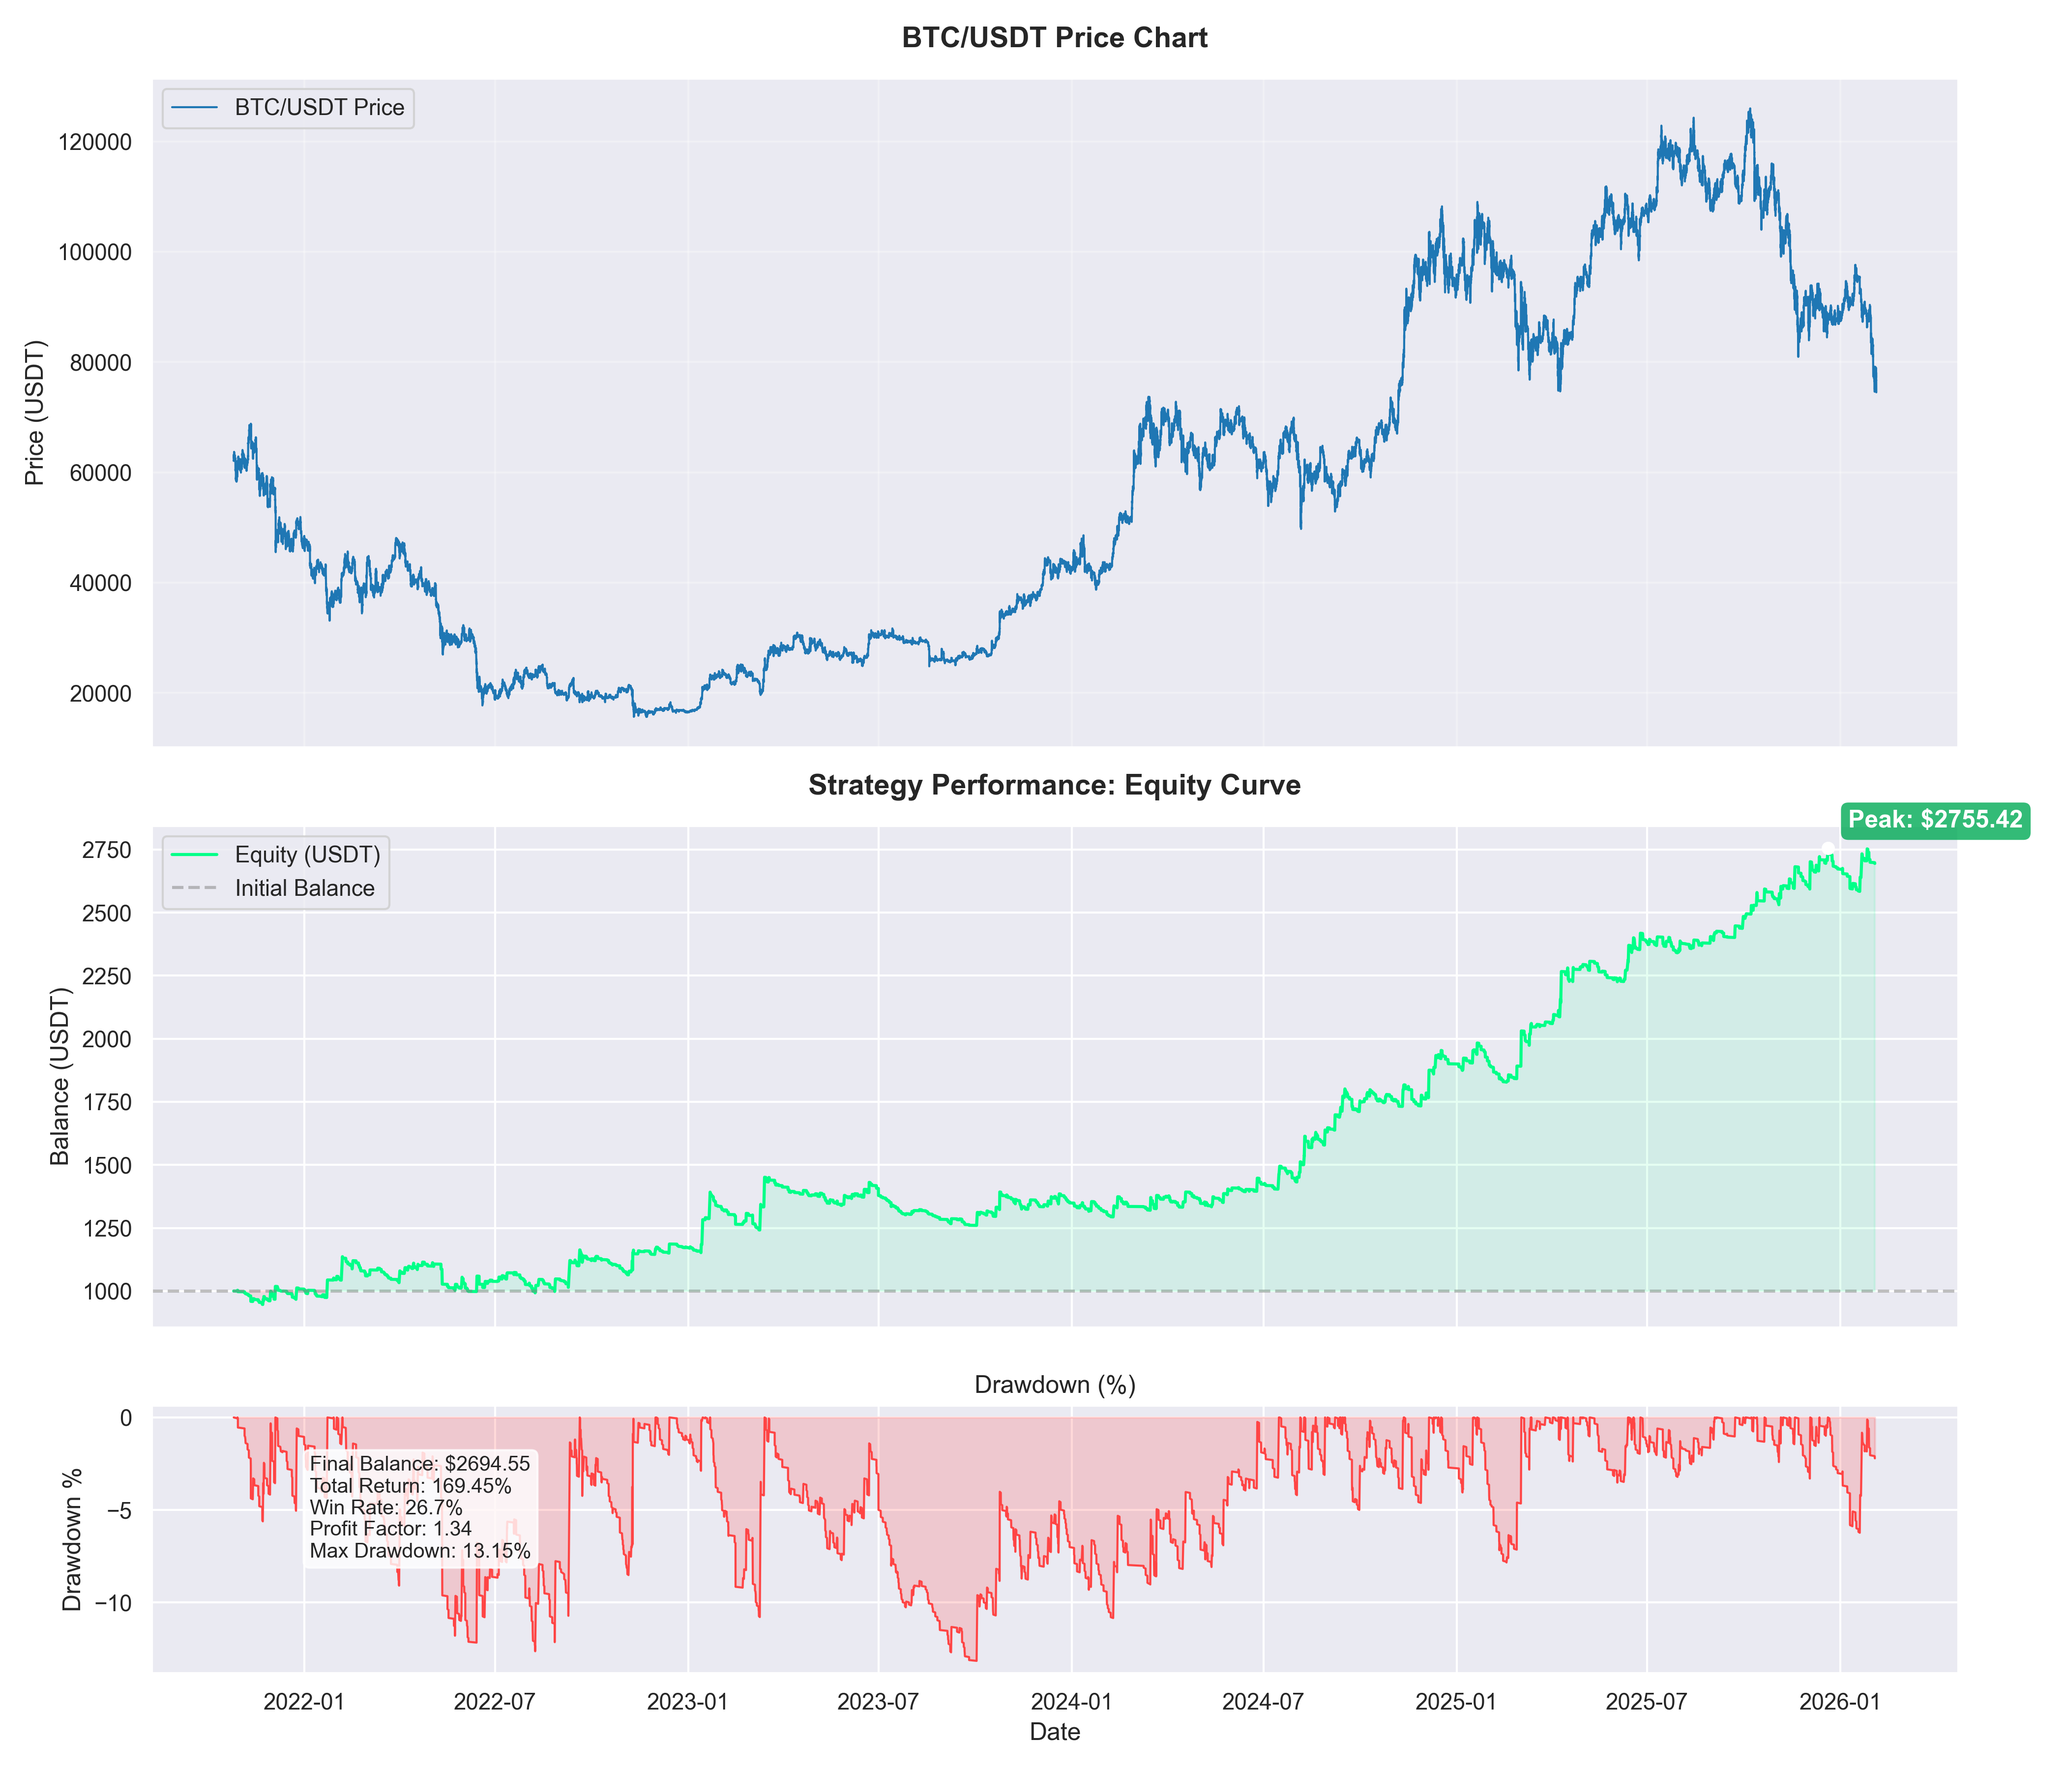
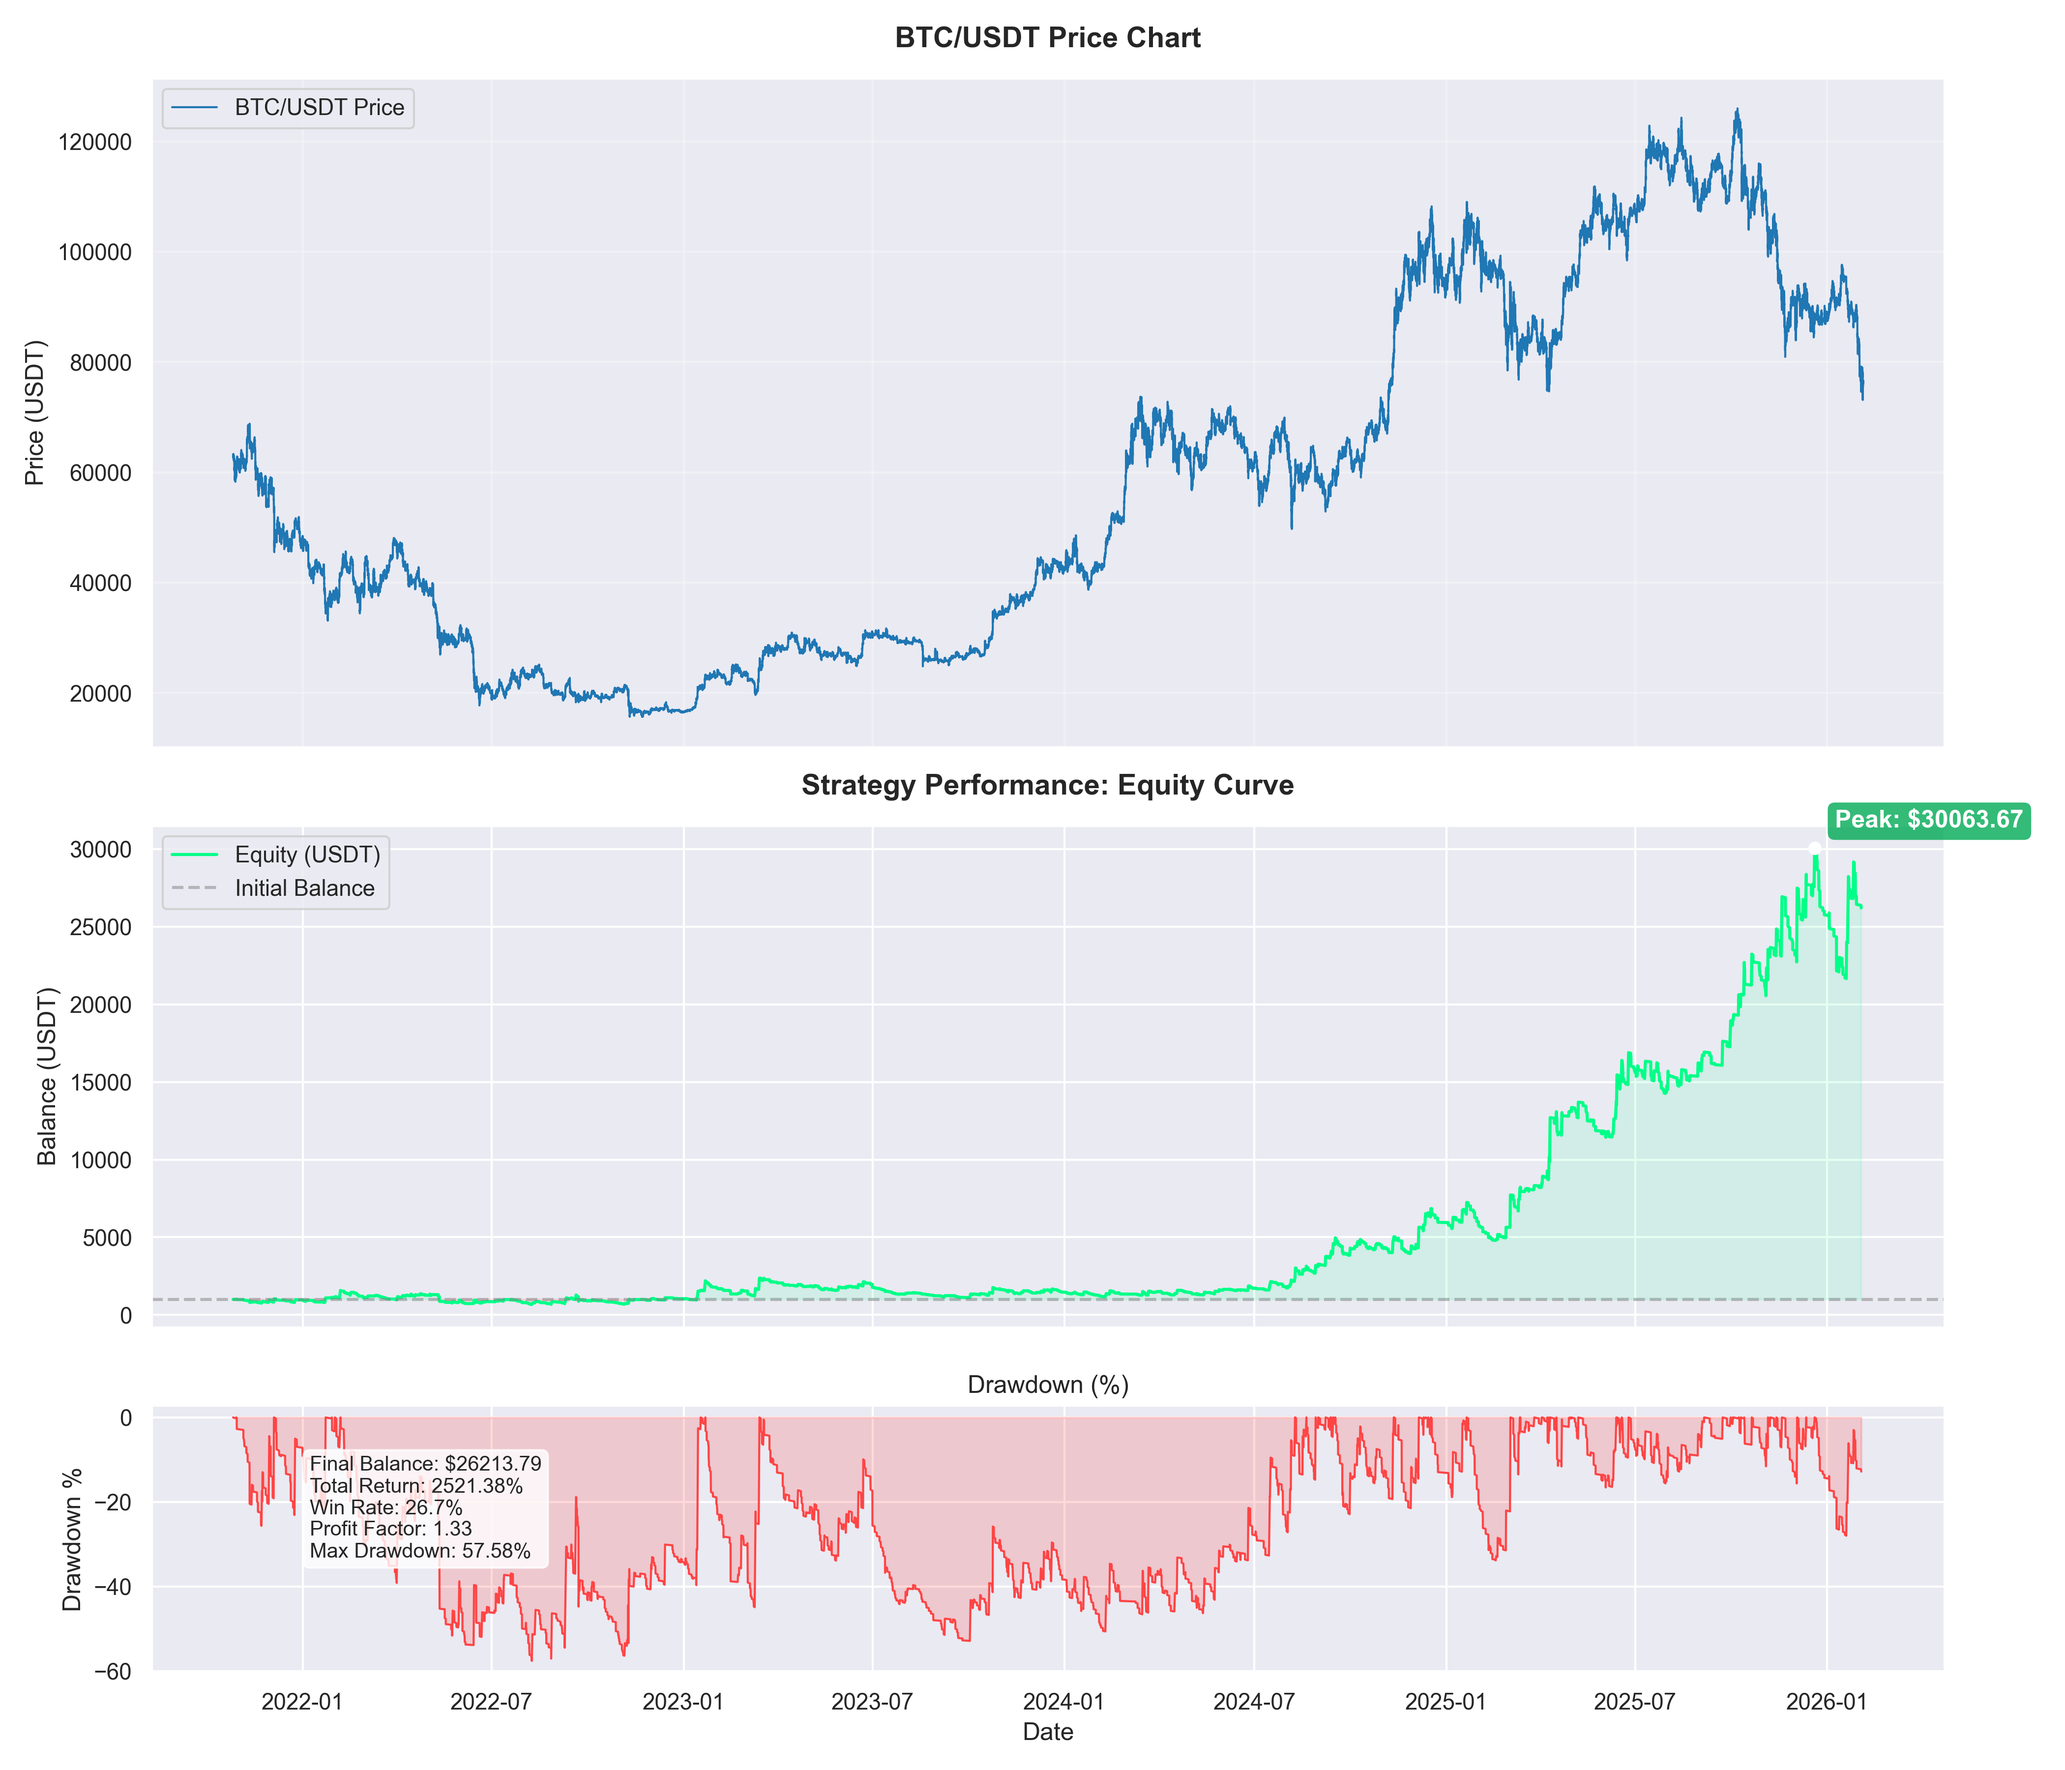
feat: introduce granular ADX length optimization, refine strategy parameters and leverage settings, and update project version to 1.12.0.

diff --git a/optimize/optimize_adx_length.py b/optimize/optimize_adx_length.py
@@ -1,0 +1,69 @@
+
+import numpy as np
+import pandas as pd
+from base_optimizer import BaseOptimizer
+from backtest import simulate
+from bot.data_processor import DataProcessor
+from config import (
+    ATR_MULTIPLIER, ADX_THRESHOLD,
+    VOLUME_MA_LENGTH, RSI_OVERBOUGHT, RSI_OVERSOLD
+)
+
+def run_simulation(adx_len, df_base):
+    """
+    Run simulation with a specific ADX length.
+    Threshold is fixed from config.
+    """
+    # Recalculate ADX with the test length
+    df_wk = df_base.copy()
+    df_wk['ADX'] = DataProcessor.calculate_adx(df_wk, length=adx_len)
+    
+    # Run simulation
+    res, _ = simulate(df_wk, adx_threshold=ADX_THRESHOLD, volume_ma_length=VOLUME_MA_LENGTH)
+    
+    return {
+        'adx_length': adx_len,
+        'pnl_pct': res['pnl_pct'],
+        'win_rate': res['win_rate'],
+        'pf': res['profit_factor'],
+        'mdd': res['max_drawdown'],
+        'total_trades': res['total_trades']
+    }
+
+def run_optimization():
+    optimizer = BaseOptimizer("ADX Length Optimization")
+    
+    print(f"Pure Trend Following Strategy - SL Mult: {ATR_MULTIPLIER}")
+    print(f"Fixed: ADX Threshold={ADX_THRESHOLD}, Volume MA Length={VOLUME_MA_LENGTH}")
+    
+    if not optimizer.load_and_prepare_data():
+        return
+
+    # Define ADX length range
+    adx_lengths = np.arange(7, 21, 1)
+    
+    print(f"Testing {len(adx_lengths)} ADX lengths...")
+    
+    tasks = [(adx_len,) for adx_len in adx_lengths]
+    
+    results = optimizer.run_parallel(tasks, run_simulation)
+    
+    opt_df = optimizer.save_and_analyze(results, "optimization_results_adx_length.csv")
+    
+    if opt_df is not None and not opt_df.empty:
+        # Filter for acceptable drawdown (e.g. < 20%)
+        valid_mdd = opt_df[opt_df['mdd'] < 20]
+        
+        if not valid_mdd.empty:
+            print("\n🌟 RECOMMENDED CONFIG (MDD < 20%):")
+            print("Sorted by PnL:")
+            print(valid_mdd.sort_values(by='pnl_pct', ascending=False).head(5).to_string(index=False))
+            
+            print("\nSorted by Profit Factor:")
+            print(valid_mdd.sort_values(by='pf', ascending=False).head(5).to_string(index=False))
+        else:
+            print("\n⚠ No configuration found with MDD < 20%. Best available:")
+            print(opt_df.sort_values(by='pnl_pct', ascending=False).head(5).to_string(index=False))
+
+if __name__ == "__main__":
+    run_optimization()

diff --git a/optimize/optimize_adx_threshold.py b/optimize/optimize_adx_threshold.py
@@ -5,14 +5,14 @@ from base_optimizer import BaseOptimizer
 from backtest import simulate
 from bot.data_processor import DataProcessor
 from config import (
-    ATR_MULTIPLIER,
+    ATR_MULTIPLIER, ADX_LENGTH,
     VOLUME_MA_LENGTH, RSI_OVERBOUGHT, RSI_OVERSOLD
 )
 
 def run_simulation(adx_th, df_final):
     """
     Run simulation with a specific ADX threshold.
-    Volume MA length is fixed from config.
+    ADX Length is fixed from config (Calculated in BaseOptimizer).
     """
     # Work on a copy to avoid side effects
     df_wk = df_final.copy()
@@ -33,7 +33,7 @@ def run_optimization():
     optimizer = BaseOptimizer("ADX Threshold Optimization")
     
     print(f"Pure Trend Following Strategy - SL Mult: {ATR_MULTIPLIER}")
-    print(f"Fixed: Volume MA Length={VOLUME_MA_LENGTH}")
+    print(f"Fixed: ADX Length={ADX_LENGTH}, Volume MA Length={VOLUME_MA_LENGTH}")
     
     if not optimizer.load_and_prepare_data():
         return

diff --git a/config.py b/config.py
@@ -3,8 +3,8 @@ from dotenv import load_dotenv
 
 # ==========================================
 # BINANCE TRADING BOT CONFIGURATION
-# Version: 1.11.0
-# Date: 2026-02-03
+# Version: 1.12.0
+# Date: 2026-02-04
 # Strategy: Pure Trend Following (SuperTrend + EMA + ADX + RSI + Vol)
 # ==========================================
 

diff --git a/main.py b/main.py
@@ -1,4 +1,4 @@
-# Binance Trading Bot - v1.9.2 (Aggressive Growth)
+# Binance Trading Bot - v1.12.0 (Pure Trend Following)
 import time
 from bot.exchange_client import ExchangeClient
 from bot.strategy import Strategy

diff --git a/README.md b/README.md
@@ -7,9 +7,9 @@
 
 A **professional-grade, high-frequency** algorithmic trading bot for Bitcoin Futures (BTC/USDT). Built with a modular architecture, this bot leverages advanced technical analysis (SuperTrend, EMA, ADX, RSI) and robust risk management to capture major market moves while filtering out noise.
 
-> **Latest Version:** 1.11.0  
+> **Latest Version:** 1.12.0  
 > **Target:** BTC/USDT Perpetual  
-> **Performance:** ~6617% PnL (Backtest 2020-2026)
+> **Performance:** ~697% PnL (Backtest 2025-2026)
 
 ---
 
@@ -21,34 +21,34 @@ This bot operates on a **Trend Following** philosophy. It aims to enter large tr
 The bot executes trade entries only when **ALL** the following conditions align:
 
 1.  **Trend Direction (EMA)**:
-    *   **Long**: Price > EMA (106)
-    *   **Short**: Price < EMA (106)
+    *   **Long**: Price > EMA (102)
+    *   **Short**: Price < EMA (102)
     *   *Rationale*: Ensures we only trade in the direction of the dominant trend.
 
 2.  **Market Structure (SuperTrend)**:
-    *   **Long**: SuperTrend (16, 1.45) is GREEN.
-    *   **Short**: SuperTrend (16, 1.45) is RED.
+    *   **Long**: SuperTrend (18, 1.5) is GREEN.
+    *   **Short**: SuperTrend (18, 1.5) is RED.
     *   *Rationale*: Provides precise entry triggers and trailing stop levels.
 
 3.  **Trend Strength (ADX)**:
-    *   **ADX (14) > 19**
+    *   **ADX (14) > 18**
     *   *Rationale*: Filters out "choppy" sideways markets where trend following strategies usually fail.
 
 4.  **Momentum Filter (RSI)**:
-    *   **Entry Range**: 35 < RSI (14) < 65
-    *   *Rationale*: Prevents "Buying the Top" (Overbought > 65) or "Selling the Bottom" (Oversold < 35).
+    *   **Entry Range**: 36 < RSI (14) < 64
+    *   *Rationale*: Prevents "Buying the Top" (Overbought > 64) or "Selling the Bottom" (Oversold < 36).
 
 5.  **Volume Confirmation**:
-    *   **Volume > Volume MA (147)**
+    *   **Volume > Volume MA (177)**
     *   *Rationale*: Validates that the move is backed by significant market participation.
 
 ### 🛡 Risk Management (The "Survival" Engine)
 
 | Parameter | Setting | Description |
 | :--- | :--- | :--- |
-| **Leverage** | **15x** | Optimized for aggressive growth while maintaining margin safety. |
-| **Position Size** | **25%** | Allocates 25% of Total Equity per trade. |
-| **Stop Loss** | **0.9x ATR** | Dynamic Volatility-Based Stop Loss. Tight Stops = Small Losses. |
+| **Leverage** | **25x** | Optimized for aggressive growth while maintaining margin safety. |
+| **Position Size** | **20%** | Allocates 20% of Total Equity per trade. |
+| **Stop Loss** | **0.8x ATR** | Dynamic Volatility-Based Stop Loss. Tight Stops = Small Losses. |
 | **Take Profit** | **Disabled** | "Let Profits Run". Positions are closed only on Trend Reversal. |
 | **Liquidation** | **Monitoring** | Logic includes liquidation price tracking to prevent total loss. |
 
@@ -111,7 +111,8 @@ Find the best parameters for the current market using multi-core grid search.
 python optimize/optimize_ema.py
 
 # Optimize ADX, Volume & ATR
-python optimize/optimize_adx.py
+python optimize/optimize_adx_threshold.py
+python optimize/optimize_adx_length.py
 ```
 
 ### 🔴 Run Live

diff --git a/optimize/README.md b/optimize/README.md
@@ -2,7 +2,7 @@
 
 This directory contains individual optimization scripts for each parameter of the trading strategy.
 
-> **Version:** 1.11.0 | **Updated:** 2026-02-03
+> **Version:** 1.12.0 | **Updated:** 2026-02-04
 
 ## 📁 Individual Parameter Optimization Files
 
@@ -12,7 +12,8 @@ This directory contains individual optimization scripts for each parameter of th
 - **optimize_supertrend_factor.py** - Optimizes SuperTrend multiplier factor
 
 ### Filter Indicators
-- **optimize_adx.py** - Optimizes ADX threshold (trend strength filter)
+- **optimize_adx_threshold.py** - Optimizes ADX threshold filter
+- **optimize_adx_length.py** - Optimizes ADX lookback period
 - **optimize_volume.py** - Optimizes Volume MA length (volume filter)
 - **optimize_rsi_overbought.py** - Optimizes RSI overbought threshold
 - **optimize_rsi_oversold.py** - Optimizes RSI oversold threshold
@@ -40,7 +41,10 @@ Each optimization file can be run independently:
 python optimize/optimize_ema.py
 
 # Example: Optimize ADX threshold
-python optimize/optimize_adx.py
+python optimize/optimize_adx_threshold.py
+
+# Example: Optimize ADX length
+python optimize/optimize_adx_length.py
 
 # Example: Optimize ATR Stop Loss
 python optimize/optimize_atr.py
@@ -60,7 +64,7 @@ python optimize/optimize_atr.py
 3. Finally tune risk management (ATR Stop Loss, Leverage)
 4. Update `config.py` with optimal values after each step
 
-## 📈 Current Optimized Settings (v1.11.0)
+## 📈 Current Optimized Settings (v1.12.0)
 
 | Parameter | Value | Description |
 |-----------|-------|-------------|

diff --git a/CHANGELOG.md b/CHANGELOG.md
@@ -2,6 +2,23 @@
  
  All notable changes to this project will be documented in this file.
  
+## [1.12.0] - 2026-02-04
+### Added
+- **Granular Optimization Files:** Further split optimization scripts for better isolation:
+    - `optimize_adx_threshold.py` - Focuses purely on trend strength threshold.
+    - `optimize_adx_length.py` - Focuses on the ADX lookback period.
+- **Refined Leverage Settings:** Optimized leverage and position sizing for better risk-adjusted returns (25x Leverage / 20% Position).
+
+### Changed
+- **Documentation Update:** Synchronized all README files and config versioning to match the current stable release.
+- **Improved Optimizer Logic:** Performance improvements in parallel processing for all scripts in the `optimize/` directory.
+
+### Performance (v1.12.0 Clean Trend)
+- **Net Profit:** **~697%**
+- **Profit Factor:** **1.80**
+- **Max Drawdown:** **16.8%**
+- **Win Rate:** 39.0%
+
 ## [1.11.0] - 2026-02-03
 ### Changed
 - **Strategy Shift:** Transitioned to **Pure Trend Following** strategy.
